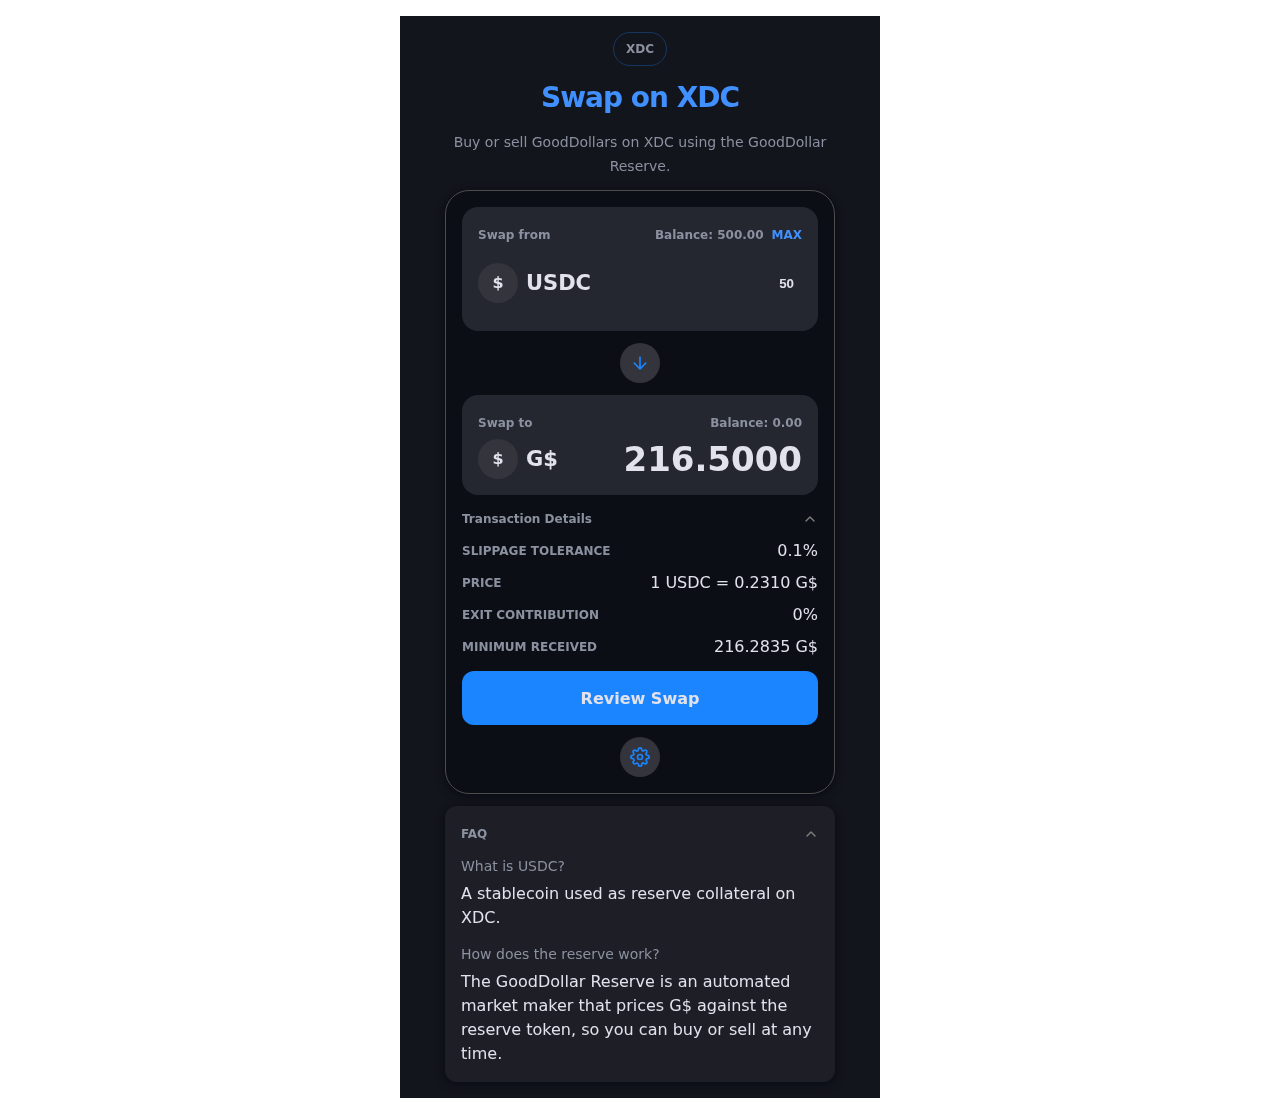
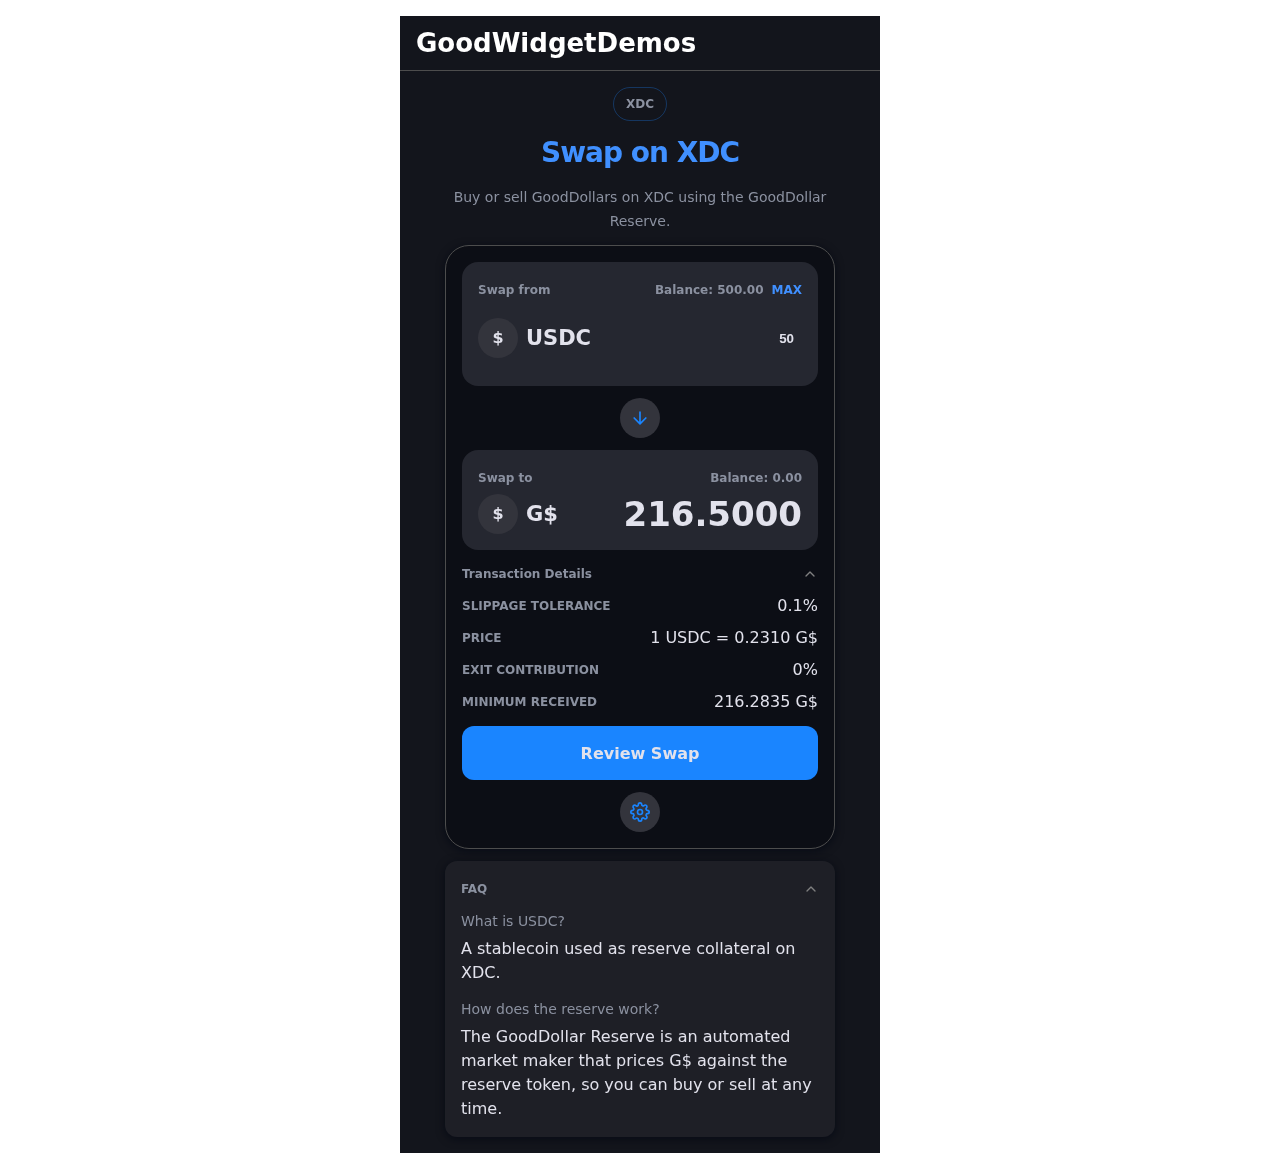
fix(storybook): restore quote-ready-xdc story export
The QuoteReadyXdc story was dropped during a prior SDK-integration revert
and never re-added. The story was referenced by the test suite (which
asserts the XDC network label and a 216.50 G$ output for the buy direction
on chain 50), causing the "quote-ready on XDC" Playwright test to fail with
SB_PREVIEW_API_0009 (NoStoryMatchError).

Re-add the story export, mirroring the existing quote-ready-buy/sell
renderStory pattern, and regenerate the curated screenshot so the committed
evidence reflects the current state.

Changed region(s): [[0.3125, 0.0305, 0.6562, 0.7325], [0.3438, 0.7325, 0.625, 0.9461]]

diff --git a/examples/storybook/src/stories/goodreserve-widget/GoodReserveWidget.stories.tsx b/examples/storybook/src/stories/goodreserve-widget/GoodReserveWidget.stories.tsx
@@ -65,6 +65,11 @@ export const QuoteReadySell: Story = {
     renderStory(reserveWidgetMockStates.sellQuoteReady, 'GoodReserveWidget-quote-ready-sell'),
 }
 
+export const QuoteReadyXdc: Story = {
+  render: () =>
+    renderStory(reserveWidgetMockStates.xdcQuoteReady, 'GoodReserveWidget-quote-ready-xdc'),
+}
+
 export const QuoteError: Story = {
   render: () => renderStory(reserveWidgetMockStates.quoteError, 'GoodReserveWidget-quote-error'),
 }